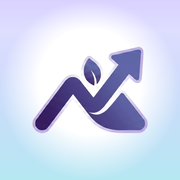
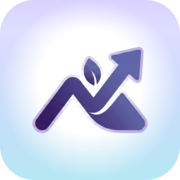
אייקונים עם פינות מעוגלות (רדיוס 96/512)

diff --git a/sw.js b/sw.js
@@ -1,4 +1,4 @@
-const CACHE = 'personal-manager-v5';
+const CACHE = 'personal-manager-v6';
 const ASSETS = [
   '/',
   '/index.html',
